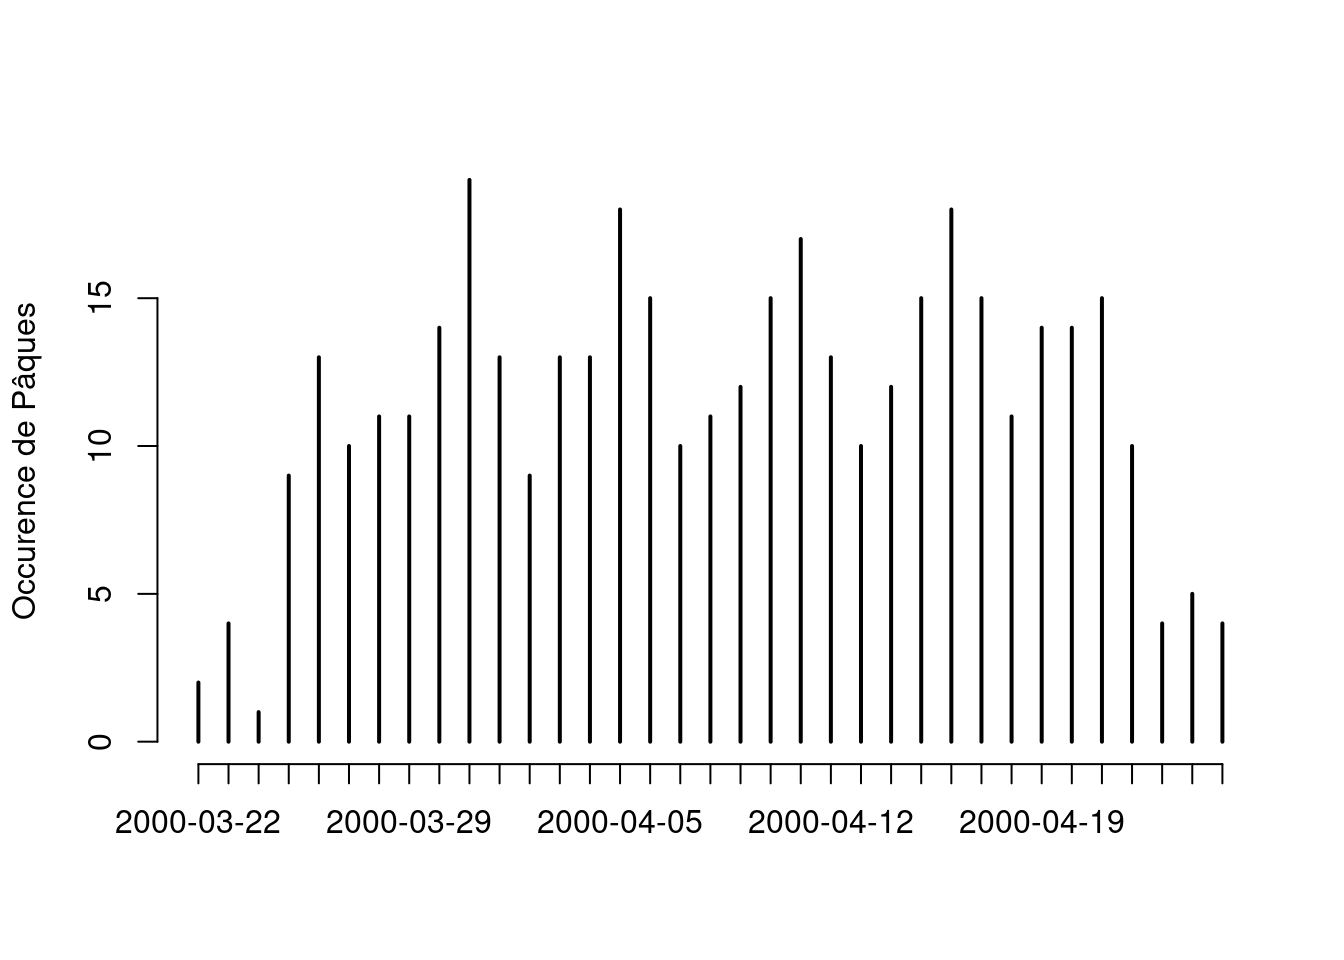
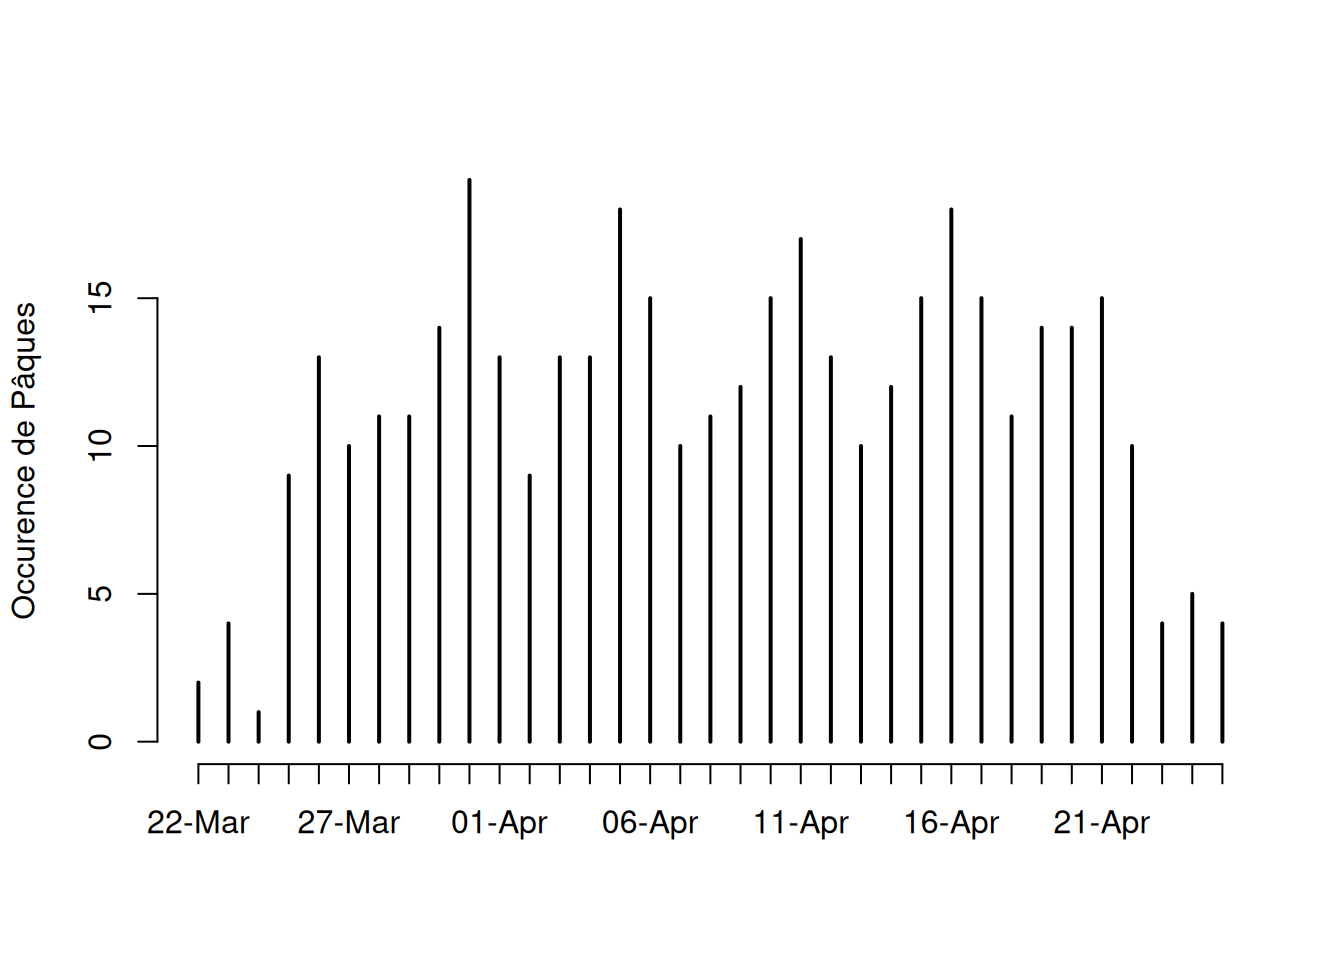
Sheets built!

diff --git a/doc/Calendar-steps.md b/doc/Calendar-steps.md
@@ -545,9 +545,14 @@ lundi de pentecôte.
 
 Seulement la date de Pâques suit le calendrier lunaire. Et la fréquence
 de Pâques (combinant calendrier grégorien et calendrier lunaire) est de
-5700000 ans.
[phone redacted] ans (ref.
+[Wikipedia](https://en.wikipedia.org/wiki/Date_of_Easter), [Denis
+Roegel](https://inria.hal.science/hal-01009457/PDF/roegel2014easter-bracelets.pdf),
+[Histoire des jours
+fériés](https://lagrandehistoireducalendrier.wordpress.com/tag/paques/)
+et [OEIS](https://oeis.org/A348924/internal)).
 
-La répartition des occurences de la date de Paques sur 57000000 ans est
+La répartition des occurences de la date de Paques sur 5700000 ans est
 la suivante :
 
 ![](./figures/easter_occurence-1.png)<!-- -->
@@ -1243,9 +1248,14 @@ lundi de pentecôte.
 
 Seulement la date de Pâques suit le calendrier lunaire. Et la fréquence
 de Pâques (combinant calendrier grégorien et calendrier lunaire) est de
-5700000 ans.
[phone redacted] ans (ref.
+[Wikipedia](https://en.wikipedia.org/wiki/Date_of_Easter), [Denis
+Roegel](https://inria.hal.science/hal-01009457/PDF/roegel2014easter-bracelets.pdf),
+[Histoire des jours
+fériés](https://lagrandehistoireducalendrier.wordpress.com/tag/paques/)
+et [OEIS](https://oeis.org/A348924/internal)).
 
-La répartition des occurences de la date de Paques sur 57000000 ans est
+La répartition des occurences de la date de Paques sur 5700000 ans est
 la suivante :
 
 ![](./figures/easter_occurence-1.png)<!-- -->